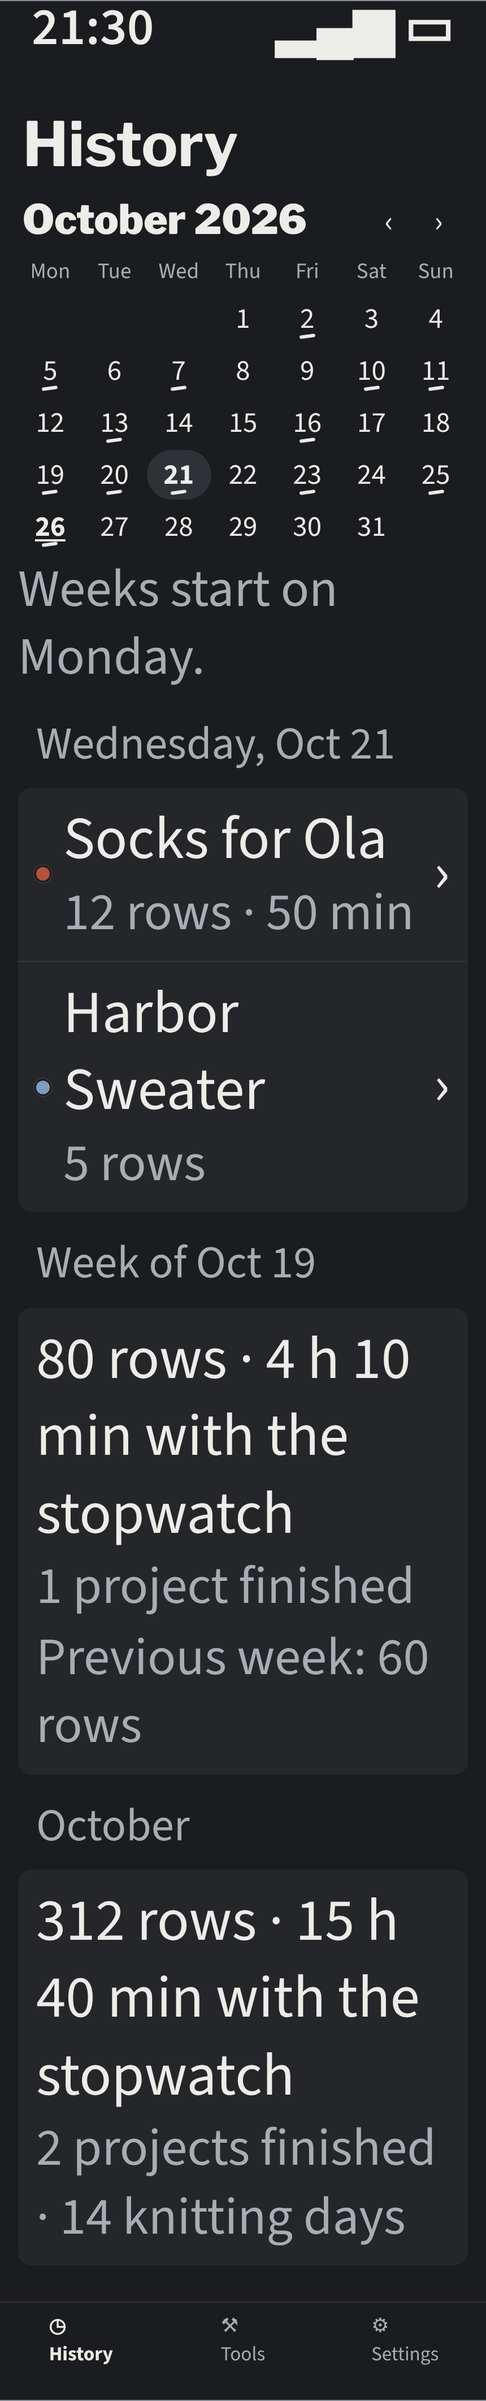
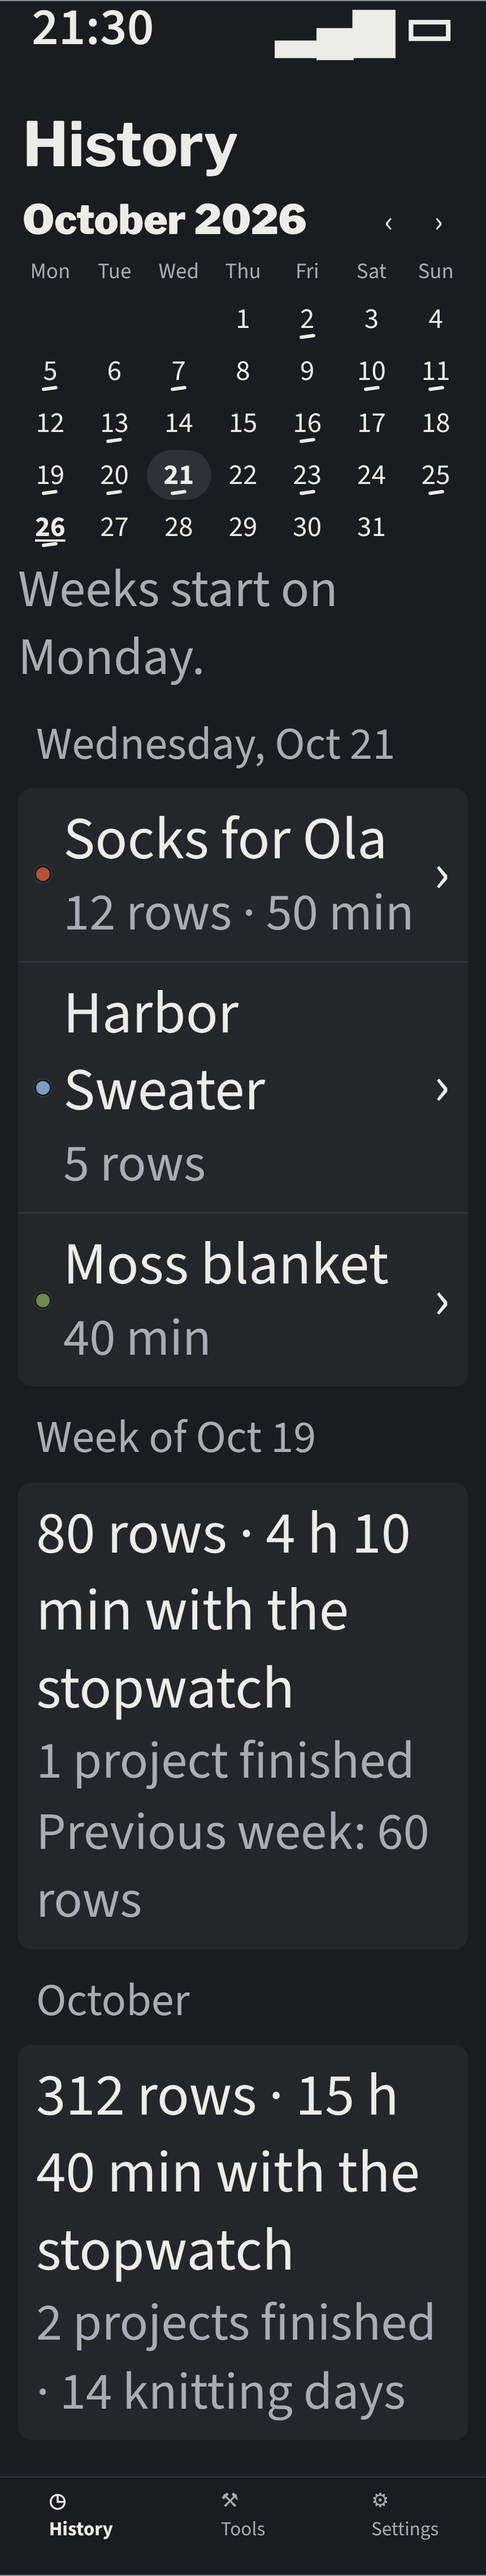
04 fix-6 NZ-08-P5-BD: dostosowanie do P-195 (ER-54 korekta zeruje przerwy, ER-55 dzień z samym stoperem); plik stanu ze skrótami po rebase
Łatka: verify kod 0, 2019/2019 z łatką i bez.

Claude-Session: https://claude.ai/code/session_01AsGyBh8cmgp6SEm3SmuUun

diff --git a/docs/design/fix6-2026-10-26/sesje-historia.html b/docs/design/fix6-2026-10-26/sesje-historia.html
@@ -437,7 +437,7 @@ h1 { font: 700 calc(30px * var(--dt-tytul)) / 1.15 var(--tytul); margin: 0; }
     <p class="podpis" style="margin-top:4px">Weeks start on Monday.</p>
   </div>
   <div class="naglowek-grupy">Wednesday, Oct 21</div>
-  <div class="grupa" data-testid="historia-dzien"><div class="el" role="button"><span class="kropka" style="--wloczka:#B5523B"></span><div class="tx">Socks for Ola<small>12 rows · 50 min</small></div><span aria-hidden="true">›</span></div><div class="el" role="button"><span class="kropka"></span><div class="tx">Harbor Sweater<small>5 rows</small></div><span aria-hidden="true">›</span></div></div>
+  <div class="grupa" data-testid="historia-dzien"><div class="el" role="button"><span class="kropka" style="--wloczka:#B5523B"></span><div class="tx">Socks for Ola<small>12 rows · 50 min</small></div><span aria-hidden="true">›</span></div><div class="el" role="button"><span class="kropka"></span><div class="tx">Harbor Sweater<small>5 rows</small></div><span aria-hidden="true">›</span></div><div class="el" role="button"><span class="kropka" style="--wloczka:#6E8B4E"></span><div class="tx">Moss blanket<small>40 min</small></div><span aria-hidden="true">›</span></div></div>
   <div class="naglowek-grupy">Week of Oct 19</div>
   <div class="grupa" data-testid="historia-tydzien"><div class="el"><div class="tx">80 rows · 4 h 10 min with the stopwatch<small>1 project finished</small><small>Previous week: 60 rows</small></div></div></div>
   <div class="naglowek-grupy">October</div>

diff --git a/docs/design/design-spec.md b/docs/design/design-spec.md
@@ -522,13 +522,13 @@ Makiety: `fix6-2026-10-26/sesje-historia.html` (16 stanów), wzorce `wzorce-zrzu
 
 **Czas projektu i sesje (P4a).** Ekran projektu: grupa `projekt.czas` między „Parts” a „Note”: `projekt.czas_wiersz` z sumą (ukonczenie.czas_*) albo — bez sesji — sam wiersz z `projekt.czas_brak` (bez „0 h”, bez wiersza „Sessions”); `projekt.sesje` z liczbą sesji i drugą linią `projekt.sesje_sprawdz_*` przy sesjach do sprawdzenia (`projekt-czas`; testID `projekt-sesje`).
 - Ekran „Sessions” (`sesje`): duży tytuł `sesje.tytul`, pod nim `sesje.podsumowanie_*`; grupy według dnia startu (nagłówek: data z Intl, rok tylko inny niż bieżący), od najnowszej. Wiersz: `sesje.wiersz` albo `sesje.wiersz_nastepny_dzien`, wartość = czas trwania, druga linia jedna z: `sesje.do_sprawdzenia_*` (znak „i”, testID `sesje-do-sprawdzenia`), `sesje.trwa`, `sesje.wstrzymana`, `sesje.pauzy`, `sesje.skorygowana`. VoiceOver `sesje.wiersz_a11y` + druga linia. Sesja trwająca nie otwiera korekty.
-- Arkusz korekty (`sesja-korekta`): `wspolne.anuluj` / `formularz.sesja_tytul` / `wspolne.zapisz`; wiersze `formularz.sesja_start` i `formularz.sesja_koniec` z wartością, stuknięcie rozwija systemowy wybór daty i godziny (styl koła; zakres: koniec ≥ start, nie później niż teraz); pod spodem podgląd na żywo `formularz.sesja_trwanie` + `formularz.sesja_projekt` (BR-PRJ-013 S1). Dla sesji do sprawdzenia na górze `formularz.sesja_sprawdz_*`; przy przerwach `formularz.sesja_przerwy` (reguła korekty z przerwami: N2 → 05/01). **Save zawsze zdejmuje `do_korekty`** (także bez zmian — to potwierdzenie) i ustawia `skorygowano`.
+- Arkusz korekty (`sesja-korekta`): `wspolne.anuluj` / `formularz.sesja_tytul` / `wspolne.zapisz`; wiersze `formularz.sesja_start` i `formularz.sesja_koniec` z wartością, stuknięcie rozwija systemowy wybór daty i godziny (styl koła; zakres: koniec ≥ start, nie później niż teraz); pod spodem podgląd na żywo `formularz.sesja_trwanie` + `formularz.sesja_projekt` (BR-PRJ-013 S1). Dla sesji do sprawdzenia na górze `formularz.sesja_sprawdz_*`; przy przerwach `formularz.sesja_przerwy` — korekta zeruje przerwy, arkusz mówi to przed zapisem (BR-PRJ-013, ER-54, P-195 Q2a). **Save zawsze zdejmuje `do_korekty`** (także bez zmian — to potwierdzenie) i ustawia `skorygowano`.
 - Koniec przed początkiem (`sesja-korekta-blad`, BR-PRJ-013 S3): pod polami `formularz.sesja_blad` ze znakiem „!” w kolorze `blad` (tekst + znak), Save nieaktywny (token nieaktywny: grupa D, R1); nic się nie zapisuje.
 
 **Historia (P6a, U-7: jeden widok w zakładce „History”, nic na liczniku).**
 - Duży tytuł `dni.tytul`; kalendarz miesiąca: nagłówek miesiąca (Intl) ze strzałkami `dni.poprzedni_miesiac_a11y` / `dni.nastepny_miesiac_a11y` (44 × 44 pt; także przesunięcie w poziomie — gest ma przycisk, SP-15), kolumny od poniedziałku dla każdego regionu (RD-20), skróty dni z Intl; pod siatką `dni.od_poniedzialku`.
-- **Dzień z robótką: kreska ołówkiem pod liczbą** (`kreska`, 14 × 3 pt, lekko pochylona) — element firmowy niesie dane (dzień z pracą wg RD-15), nie kolor. Wybrany dzień: koło `przyciskTlo` z liczbą `przyciskTekst` (kreska w kolorze tekstu); dziś: pogrubienie z podkreśleniem. Komórki 44 pt wysokości. VoiceOver: `dni.dzien_*` (z robótką) albo `dni.dzien_bez_a11y`; wybrany z cechą „selected”.
-- Pod kalendarzem nagłówek wybranego dnia (Intl, dzień tygodnia + data; domyślnie dziś) i grupa projektów dnia: kropka włóczki, nazwa, `dni.rzedy_*` albo `dni.rzedy_czas`; stuknięcie = ekran projektu (BR-DNI-002); ukończenia tego dnia — `dni.ukonczone`. Dzień bez robótki: `dni.pusto_dzien` (`historia-dzien-pusty`).
+- **Dzień z robótką: kreska ołówkiem pod liczbą** (`kreska`, 14 × 3 pt, lekko pochylona) — element firmowy niesie dane (dzień z robótką wg `docs/brd/wymagania-dni.md`: rzędy wg RD-15 albo sesja stopera ≥ 1 min, ER-55), nie kolor. Wybrany dzień: koło `przyciskTlo` z liczbą `przyciskTekst` (kreska w kolorze tekstu); dziś: pogrubienie z podkreśleniem. Komórki 44 pt wysokości. VoiceOver: `dni.dzien_*` (z robótką) albo `dni.dzien_bez_a11y`; wybrany z cechą „selected”.
+- Pod kalendarzem nagłówek wybranego dnia (Intl, dzień tygodnia + data; domyślnie dziś) i grupa projektów dnia: kropka włóczki, nazwa, `dni.rzedy_*`, `dni.rzedy_czas` albo — dzień z samym stoperem — sam czas (ER-55); stuknięcie = ekran projektu (BR-DNI-002); ukończenia tego dnia — `dni.ukonczone`. Dzień bez robótki: `dni.pusto_dzien` (`historia-dzien-pusty`).
 - **Dwa bloki podsumowania bez przełącznika (P6a):** `dni.tydzien` (albo `dni.tydzien_biezacy`) — tydzień wybranego dnia, pon.–niedz.: `dni.suma_czas` (rzędy · `dni.czas`), `dni.ukonczono_*` (przy 0 pominięte), `dni.tydzien_poprzedni_*` (BR-DNI-003 S1–S2); blok miesiąca z kalendarza (nagłówek: nazwa miesiąca z Intl): rzędy · czas, `dni.ukonczono_*` · `dni.dni_robotki_*`. Bez sesji w okresie: same rzędy i `dni.bez_stopera` (BR-DNI-003 S3, `historia-bez-stopera`). Zmiana miesiąca strzałką przenosi wybór na 1. dzień tego miesiąca (albo dziś w bieżącym).
 - Pierwsze użycie (`historia-pierwsze`): kalendarz bez kresek i `dni.pierwsze`; żadnych serii ani ponagleń (BR-DNI-001 S5).
 - Dzień i tydzień liczą `podsumowanieTygodnia` (repozytorium, od poniedziałku); miesiąc — ta sama metoda w granicach miesiąca kalendarza (dzień RD-16). Rozjazd „komponent pokazuje miesiąc” znika: komponent pokazuje oba bloki.
@@ -557,7 +557,7 @@ Makiety: `fix6-2026-10-26/sesje-historia.html` (16 stanów), wzorce `wzorce-zrzu
 | `sesje.wiersz_a11y` | {{data}}, {{start}} to {{koniec}}, {{czas}}. Edit |
 | `formularz.sesja_trwanie` / `formularz.sesja_projekt` | Lasts {{czas}}. / Project time after saving: {{czas}}. |
 | `formularz.sesja_sprawdz_one` / `_other` | Oczko stopped this timer after {{count}} hour(s). Set when you really stopped. |
-| `formularz.sesja_przerwy` | {{czas}} of pauses are not counted. |
+| `formularz.sesja_przerwy` | This session had {{czas}} of pauses. After you change the times, it counts from start to end. |
 | `dni.tytul` / `dni.od_poniedzialku` | History / Weeks start on Monday. |
 | `dni.poprzedni_miesiac_a11y` / `dni.nastepny_miesiac_a11y` | Previous month / Next month |
 | `dni.tydzien` / `dni.tydzien_biezacy` | Week of {{data}} / This week |
@@ -576,7 +576,7 @@ Pełne formy liczby mnogiej i kontekst dla tłumaczy: `fix6-2026-10-26/klucze.js
 - **Czas w kapsule:** wartość od `start_ms` i `przerwy_ms` (trwa) albo stała (wstrzymana), odświeżana przez komponent czasu, nie `setInterval` w stanie ekranu; ogłoszenia tylko przy zmianie stanu.
 - **testID** (propozycja dla tabeli 07): `licznik-stoper`, `stoper-wstrzymaj`, `stoper-zatrzymaj`, `stoper-inny-potwierdz`, `stoper-sprawdz`, `projekt-sesje`, `sesje-lista`, `sesje-do-sprawdzenia`, `formularz-sesja-start`, `formularz-sesja-koniec`, `historia-kalendarz`, `historia-dzien`, `historia-tydzien`, `historia-miesiac`.
 - **Bez nowych kolorów:** kapsuła = tokeny przycisku głównego (pary w `kontrast-tabela.txt`), kreska dnia = `kreska` na `papier` (grafika 3:1: ta sama para co kreski sesji), wybrany dzień = przycisk główny.
-- **Otwarte (P-191, przegląd 05/01):** N1 Live Activity bez pola pauzy (czas wstrzymanej sesji na ekranie blokady), N2 korekta sesji z przerwami, N3 dzień z samym stoperem w kalendarzu.
+- **Otwarte (P-191, przegląd 05):** N1 Live Activity bez pola pauzy (czas wstrzymanej sesji na ekranie blokady). N2 i N3 rozstrzygnęła rola 01 (P-195: ER-54 korekta zeruje przerwy, ER-55 dzień z samym stoperem ≥ 1 min ma kreskę; „last worked” także z końca sesji) — makiety i teksty dostosowane.
 
 ## Narzędzia, zapas, zdjęcia i obraz karty (F-16, F-37, F-38, F-53; BR-KAL-001/003/008, BR-ZAP-001–004, BR-PRJ-003, BR-PRJ-015; P-191)
 Makiety: `fix6-2026-10-26/narzedzia-zdjecia.html` (17 stanów), wzorce `wzorce-zrzuty/narzedzia-zdjecia-<stan>-*` (204); teksty en z kontekstem dla tłumaczy: `fix6-2026-10-26/klucze.json`. Teksty obliczeń i rozmiarów to kanon 06 (`oczko-warsztat` 06-tresci, `tresci/en`; warunki wyświetlania: `docs/tresci/README.md`) — 04 ustala tylko miejsce; liczby z `docs/tresci/parametry.json`.

diff --git a/docs/design/fix6-2026-10-26.md b/docs/design/fix6-2026-10-26.md
@@ -61,7 +61,7 @@ Agent: E0 ok. 1 h (zrobione); E1 B ok. 2–3 h, D i R ok. 3 h; czekanie: verify 
 - E1 grupa B: 68070c6 (makiety `fix6-2026-10-26/sesje-historia.html`, 16 stanów, 192 wzorce), ec5d735 (design-spec „Stoper, sesje i Historia” + „Dla 08 (… grupa B)”, łatka `klucze.json` 63 klucze en, skrypt `nakladaj-klucze-fix6.mjs`). Krytyka renderu przed wzorcami: znaki ⏸/⏹ nie istniały w kroju (kwadraty) → SVG; przy AX5 i 320 pt kapsuła wychodziła poza pasek → pasek łamie się w dwa wiersze; „Sessio ns” / „Stoppe d” (łamanie w słowie) → wartość przechodzi pod etykietę; atrapa wyboru godziny nieczytelna → koło; „20:32–4:32” bez dnia → `sesje.wiersz_nastepny_dzien`.
 - Łatka a test P-143 (tabela `aktywnosc` w spec = słownik): wiersz `aktywnosc.plus_a11y_przypomnienie` wstawia skrypt razem z kluczem (pole `spec` łatki), a skrypt odświeża też `targets/*/Teksty.swift` (`UPDATE_TEKSTY_NATYWNE=1`). Pierwsza próba bez tego: verify kod 1 (3 testy `teksty-natywne`), potem z wierszem w spec bez łatki: kod 1 (1 test) — stąd wstawianie razem z kluczem.
 - **Częściowe E2 dla B** wysłane koordynatorowi (i kopia do 08, session_012pAxWdiRuEoKiiCRVgLEau).
-- E1 grupa D i R: 9708b6b (makiety `narzedzia-zdjecia.html`, 17 stanów, 204 wzorce), 9dc9cf9 (design-spec D i „Przegląd 04 z P-188”, tokeny R1, łatka 157 kluczy), fb406de (`probka.blad_zero` → `probka.blad_wartosc`: sprawdzarka i18n czyta `_zero` jako formę liczby mnogiej — verify z łatką kod 1, po zmianie 0), 8cf3efd (znak „i” 12 px: `warsztat.mjs` 2 błędy → OK). Krytyka renderu D: „Brand · Fiber · Color” w jednym polu → trzy pola; „18 h” bez podpisu → `karta.czas`; przy AX5 przełączniki i kafel „Add photo” wychodziły poza ekran → łamią się; pasek podglądu zdjęcia nachodził na siebie.
+- E1 grupa D i R: 456b8d2 (makiety `narzedzia-zdjecia.html`, 17 stanów, 204 wzorce), 3131784 (design-spec D i „Przegląd 04 z P-188”, tokeny R1, łatka 157 kluczy), 2fdbcea (`probka.blad_zero` → `probka.blad_wartosc`: sprawdzarka i18n czyta `_zero` jako formę liczby mnogiej — verify z łatką kod 1, po zmianie 0), 68c1aba (znak „i” 12 px: `warsztat.mjs` 2 błędy → OK). Krytyka renderu D: „Brand · Fiber · Color” w jednym polu → trzy pola; „18 h” bez podpisu → `karta.czas`; przy AX5 przełączniki i kafel „Add photo” wychodziły poza ekran → łamią się; pasek podglądu zdjęcia nachodził na siebie.
 - **STOP E2** — dowody niżej.
 
 ## E2 (częściowe) — grupa B
@@ -78,23 +78,24 @@ Agent: E0 ok. 1 h (zrobione); E1 B ok. 2–3 h, D i R ok. 3 h; czekanie: verify 
 ## E2 — pełne (B, D, R)
 | ID / pozycja | Test (kontrola) przed → po | Commit | Zrzuty |
 |---|---|---|---|
-| D1 (P7a) Narzędzia i kalkulator | `kontrola-nz08p5bd.mjs` pozycja D1–D4: BRAK (49cfd03) → OK | 9708b6b | `wzorce-zrzuty/narzedzia-zdjecia-narzedzia-390-light.png`, `-probka-`, `-probka-cale-`, `-probka-blad-`; liczby: RD-01-W1 110, BR-KAL-008 S1 {2, 3}, RD-04-W1 metoda (23 → 22,638) |
-| D2 (P8a) zapas | jw. | 9708b6b | `-zapas-`, `-zapas-filtr-`, `-zapas-pusty-`, `-wloczka-` (437 yd → 399,59 m, 3,5 oz → 99,22 g), `-druty-lista-`, `-drut-` |
-| D3 (P9a) zdjęcia | jw. | 9708b6b | `-projekt-zdjecia-`, `-zdjecie-zrodlo-`, `-zdjecie-podglad-`, `-zdjecie-usun-`, `-zdjecie-brak-dostepu-` |
-| D4 (P10a) obraz karty | jw. | 9708b6b | `-karta-obraz-`, `-karta-obraz-bez-stopera-` |
-| R1 (R1a) token nieaktywny | R1: BRAK → OK; `kontrast.mjs kontrast-pary.json` kod 0, pary bez zmian (stan nieaktywny zwolniony, WCAG 1.4.3) | 9dc9cf9 | przed: brak tokenu (08: `linia`/`olowek` bez nazwy); po: `-sesja-korekta-blad-` (Save nieaktywny) |
-| R2, R4, R5, R7 klucze | D i R klucze: BRAK → OK | ec5d735, 9dc9cf9 | — |
-| R3 (R3a), R6 (R6a), R8 | spec „Przegląd 04 z P-188”; zdanie o przesunięciu w „Projekt, części i kosz” zmienione | 9dc9cf9 | — |
-| Łatka (całość) | `nakladaj-klucze-fix6.mjs` na fb406de: 157 kluczy en, 153 kontekstu (7 zastąpionych) → `env -u NODE_PATH npm run verify` kod 0, **1974/1974**; cofnięta | fb406de | — |
-| Gałąź bez łatki | `env -u NODE_PATH npm run verify` kod 0, 1974/1974 | fb406de | — |
-| Całość | `kontrola-nz08p5bd.mjs` 0/11 (49cfd03) → 11/11 (kod 0); regresja kontroli fix-1…fix-5: 6/6, 7/7, 5/5, 5/5, 4/4 | 8cf3efd | — |
-| Warsztat | `warsztat.mjs … 390 4`: sesje-historia 2 błędy (znak 10 px) → OK; narzedzia-zdjecia OK; ostrzeżenia: odstępy 1/2/6/10 px i 11–14 wielkości tekstu z bazowego CSS systemu (pasek stanu, liczba 96 pt) oraz obrazu karty liczonego od szerokości — jak w poprzednich fixach | 8cf3efd | — |
+| D1 (P7a) Narzędzia i kalkulator | `kontrola-nz08p5bd.mjs` pozycja D1–D4: BRAK (49cfd03) → OK | 456b8d2 | `wzorce-zrzuty/narzedzia-zdjecia-narzedzia-390-light.png`, `-probka-`, `-probka-cale-`, `-probka-blad-`; liczby: RD-01-W1 110, BR-KAL-008 S1 {2, 3}, RD-04-W1 metoda (23 → 22,638) |
+| D2 (P8a) zapas | jw. | 456b8d2 | `-zapas-`, `-zapas-filtr-`, `-zapas-pusty-`, `-wloczka-` (437 yd → 399,59 m, 3,5 oz → 99,22 g), `-druty-lista-`, `-drut-` |
+| D3 (P9a) zdjęcia | jw. | 456b8d2 | `-projekt-zdjecia-`, `-zdjecie-zrodlo-`, `-zdjecie-podglad-`, `-zdjecie-usun-`, `-zdjecie-brak-dostepu-` |
+| D4 (P10a) obraz karty | jw. | 456b8d2 | `-karta-obraz-`, `-karta-obraz-bez-stopera-` |
+| R1 (R1a) token nieaktywny | R1: BRAK → OK; `kontrast.mjs kontrast-pary.json` kod 0, pary bez zmian (stan nieaktywny zwolniony, WCAG 1.4.3) | 3131784 | przed: brak tokenu (08: `linia`/`olowek` bez nazwy); po: `-sesja-korekta-blad-` (Save nieaktywny) |
+| R2, R4, R5, R7 klucze | D i R klucze: BRAK → OK | ec5d735, 3131784 | — |
+| R3 (R3a), R6 (R6a), R8 | spec „Przegląd 04 z P-188”; zdanie o przesunięciu w „Projekt, części i kosz” zmienione | 3131784 | — |
+| Łatka (całość) | `nakladaj-klucze-fix6.mjs` na 2fdbcea: 157 kluczy en, 153 kontekstu (7 zastąpionych) → `env -u NODE_PATH npm run verify` kod 0, **1974/1974**; po dostosowaniu do P-195 (na 9379051 + ER-54/55) ponownie kod 0, **2019/2019**; cofnięta | 2fdbcea | — |
+| Gałąź bez łatki | `env -u NODE_PATH npm run verify` kod 0, 1974/1974; po dostosowaniu kod 0, 2019/2019 | 2fdbcea | — |
+| Całość | `kontrola-nz08p5bd.mjs` 0/11 (49cfd03) → 11/11 (kod 0); regresja kontroli fix-1…fix-5: 6/6, 7/7, 5/5, 5/5, 4/4 | 68c1aba | — |
+| Warsztat | `warsztat.mjs … 390 4`: sesje-historia 2 błędy (znak 10 px) → OK; narzedzia-zdjecia OK; ostrzeżenia: odstępy 1/2/6/10 px i 11–14 wielkości tekstu z bazowego CSS systemu (pasek stanu, liczba 96 pt) oraz obrazu karty liczonego od szerokości — jak w poprzednich fixach | 68c1aba | — |
 
 Przed/po: wszystkie pozycje to brakujące ekrany (stan „przed” = brak makiety, opis w „Stan wejściowy”); jedyna zmiana istniejącego ekranu to zdanie o przesunięciu wiersza (R6).
 
 **Dla 07:** testID z „Dla 08” grupy B i D (propozycje do tabeli `e2e/README.md`).
 **Dla 08:** łatka i stany — design-spec „Dla 08 (fix NZ-08-P5-BD, grupa B…)” i „…grupa D…”. Skrypt dotyka `targets/` (Teksty.swift) → nocny push iOS (P-187).
-**Nowe znaleziska:** N1–N3 (P-191 → przegląd 05/01); **N4 (P2, 05)** usuwanie włóczki i drutu (`usunieto_ms` bez kosza w interfejsie); **N5 (P2, 06/09)** pisownia źródła en: kanon 06 „millimetres”, interfejs „Color”.
+**Dostosowanie do P-195 (rola 01, ER-54, ER-55, po rebase):** N2 i N3 rozstrzygnięte — arkusz korekty mówi o zerowaniu przerw (`formularz.sesja_przerwy`), kreska dnia także przy samym stoperze ≥ 1 min, wiersz dnia z samym czasem (`historia`, „Moss blanket · 40 min”); design-spec i łatka poprawione, wzorce `sesje-historia-*` odświeżone.
+**Nowe znaleziska:** N1 (P-191 → przegląd 05); **N4 (P2, 05)** usuwanie włóczki i drutu (`usunieto_ms` bez kosza w interfejsie); **N5 (P2, 06/09)** pisownia źródła en: kanon 06 „millimetres”, interfejs „Color”.
 **Status:** naprawione-do-weryfikacji; „zweryfikowane” nadaje audyt 04 na Expo web po 08 (F-11, F-16, F-21, F-38, F-51, F-59 mają w kontrakcie „wynik: brak” intuicyjności).
 
 ## Czas (rzeczywisty)
